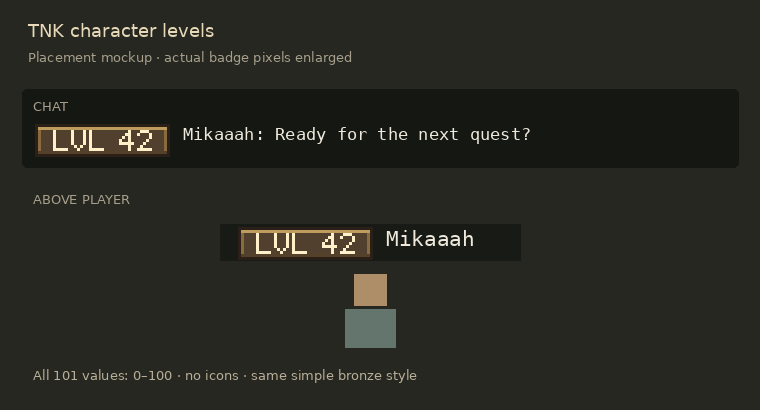
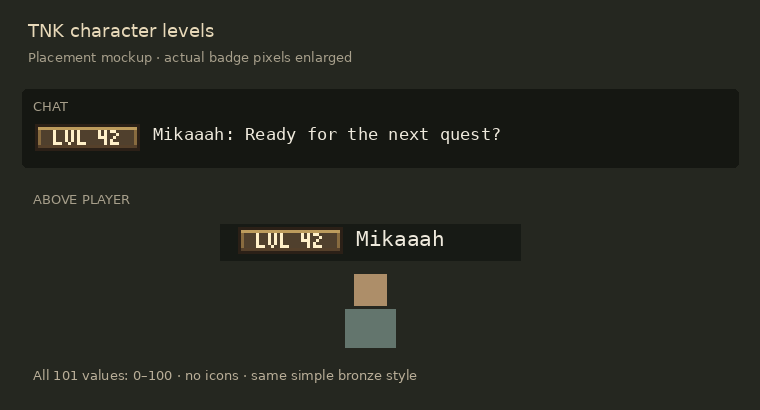
Fit compact level badge artwork within standard chat line height

Changed region(s): [[0.0303, 0.2927, 0.6961, 0.3805], [0.3026, 0.5561, 0.6355, 0.6439]]

diff --git a/tools/build_level_badges.py b/tools/build_level_badges.py
@@ -6,48 +6,42 @@ from PIL import Image, ImageDraw, ImageFont
 ROOT = Path(__file__).resolve().parents[1]
 ASSETS = ROOT / 'src/main/resources/assets/tnkprogression'
 BITS = {
-'L':'10000 10000 10000 10000 10000 10000 11111',
-'V':'10001 10001 10001 10001 10001 01010 00100',
-'0':'01110 10001 10011 10101 11001 10001 01110',
-'1':'00100 01100 00100 00100 00100 00100 01110',
-'2':'01110 10001 00001 00010 00100 01000 11111',
-'3':'11110 00001 00001 01110 00001 00001 11110',
-'4':'00010 00110 01010 10010 11111 00010 00010',
-'5':'11111 10000 10000 11110 00001 00001 11110',
-'6':'01110 10000 10000 11110 10001 10001 01110',
-'7':'11111 00001 00010 00100 01000 01000 01000',
-'8':'01110 10001 10001 01110 10001 10001 01110',
-'9':'01110 10001 10001 01111 00001 00001 01110'}
+'L':'100 100 100 100 111', 'V':'101 101 101 101 010',
+'0':'111 101 101 101 111', '1':'010 110 010 010 111',
+'2':'110 001 010 100 111', '3':'110 001 010 001 110',
+'4':'101 101 111 001 001', '5':'111 100 110 001 110',
+'6':'011 100 111 101 111', '7':'111 001 010 010 010',
+'8':'111 101 111 101 111', '9':'111 101 111 001 110'}
 def badge(level):
-    im = Image.new('RGBA', (46, 12)); d = ImageDraw.Draw(im)
-    d.rectangle((0,0,44,10), fill='#2b2017'); d.rectangle((1,1,43,9), fill='#886b3f')
-    d.line((1,1,43,1), fill='#bd9c5d'); d.line((1,9,43,9), fill='#55402a')
-    d.rectangle((2,2,42,8), fill='#50402d')
-    label = f'LVL {level}'; width = sum(4 if c == ' ' else 6 for c in label)-1; x=(45-width)//2
+    im = Image.new('RGBA', (36, 9)); d = ImageDraw.Draw(im)
+    d.rectangle((0,0,34,8), fill='#2b2017'); d.rectangle((1,1,33,7), fill='#886b3f')
+    d.line((1,1,33,1), fill='#bd9c5d'); d.line((1,7,33,7), fill='#55402a')
+    d.rectangle((2,2,32,6), fill='#50402d')
+    label = f'LVL {level}'; width = sum(3 if c == ' ' else 4 for c in label)-1; x=(35-width)//2
     for c in label:
-        if c == ' ': x+=4; continue
+        if c == ' ': x+=3; continue
         for y,row in enumerate(BITS[c].split()):
             for dx,bit in enumerate(row):
                 if bit=='1': d.point((x+dx,y+2), fill='#fff0c9')
-        x+=6
+        x+=4
     return im
-atlas=Image.new('RGBA',(46*16,12*7))
-for n in range(101): atlas.paste(badge(n),((n%16)*46,(n//16)*12))
+atlas=Image.new('RGBA',(36*16,9*7))
+for n in range(101): atlas.paste(badge(n),((n%16)*36,(n//16)*9))
 p=ASSETS/'textures/font/level_badges.png'; p.parent.mkdir(parents=True,exist_ok=True); atlas.save(p)
 rows=[''.join(chr(0xE000+n) if n<=100 else '\x00' for n in range(r*16,r*16+16)) for r in range(7)]
 p=ASSETS/'font/level_badges.json'; p.parent.mkdir(parents=True,exist_ok=True)
-p.write_text(json.dumps({'providers':[{'type':'bitmap','file':'tnkprogression:font/level_badges.png','height':12,'ascent':9,'chars':rows}]},indent=2)+'\n')
+p.write_text(json.dumps({'providers':[{'type':'bitmap','file':'tnkprogression:font/level_badges.png','height':9,'ascent':7,'chars':rows}]},indent=2)+'\n')
 preview=Image.new('RGB',(760,410),'#252720'); d=ImageDraw.Draw(preview)
 def font(size,mono=False): return ImageFont.truetype('/usr/share/fonts/truetype/dejavu/DejaVuSans'+('Mono' if mono else '')+'.ttf',size)
 d.text((28,20),'TNK character levels',font=font(18),fill='#e8d9b9')
 d.text((28,49),'Placement mockup · actual badge pixels enlarged',font=font(13),fill='#a79f8b')
 d.rounded_rectangle((22,89,738,167),radius=5,fill='#151712')
 d.text((33,98),'CHAT',font=font(13),fill='#a79f8b')
-p=badge(42).resize((138,36),Image.Resampling.NEAREST); preview.paste(p,(35,124),p)
-d.text((183,124),'Mikaaah: Ready for the next quest?',font=font(17,True),fill='#eee9dc')
+p=badge(42).resize((108,27),Image.Resampling.NEAREST); preview.paste(p,(35,124),p)
+d.text((153,124),'Mikaaah: Ready for the next quest?',font=font(17,True),fill='#eee9dc')
 d.text((33,191),'ABOVE PLAYER',font=font(13),fill='#a79f8b')
 d.rectangle((220,224,520,260),fill='#171a15'); preview.paste(p,(238,227),p)
-d.text((386,226),'Mikaaah',font=font(21,True),fill='#eee9dc')
+d.text((356,226),'Mikaaah',font=font(21,True),fill='#eee9dc')
 d.rectangle((354,274,386,305),fill='#ad8e69'); d.rectangle((345,309,395,347),fill='#63756d')
 d.text((33,367),'All 101 values: 0–100 · no icons · same simple bronze style',font=font(13),fill='#b9ae98')
 preview.save(ROOT/'Level-Badges-Preview.png')
